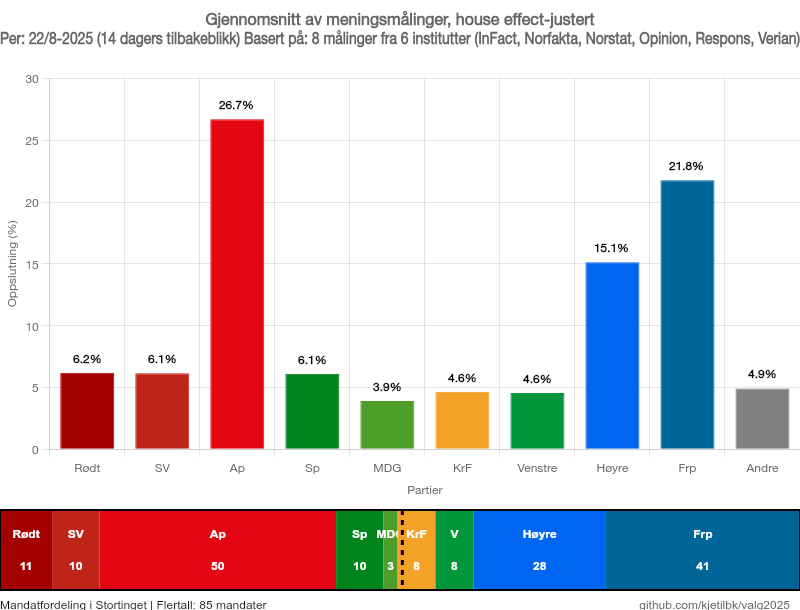
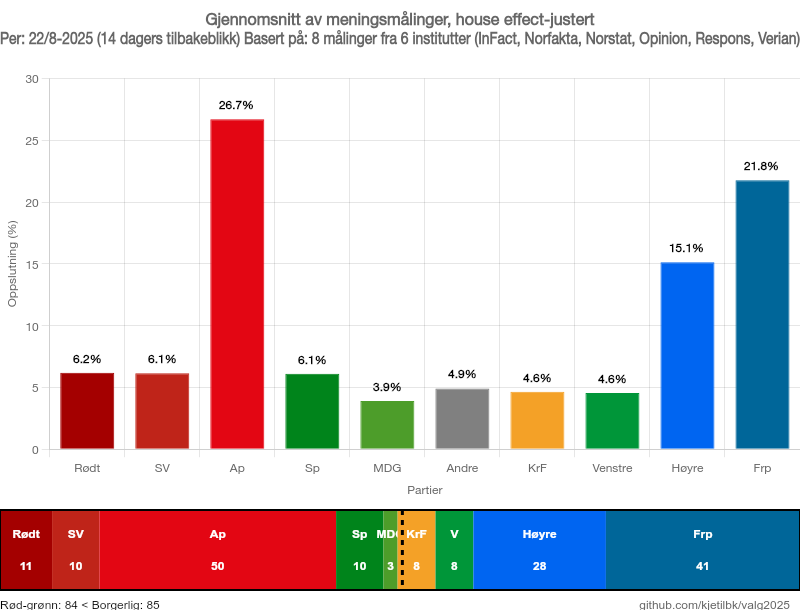
fix: dato og blokk-tekst

Changed region(s): [[0.5312, 0.2492, 1.0, 0.7787], [0.0, 0.9656, 0.3438, 1.0]]

diff --git a/src/partyVisualization.ts b/src/partyVisualization.ts
@@ -49,8 +49,8 @@ export function drawPartySeats(
     const rectWidth = width;
     const rectHeight = height - 20; // Leave space for label
 
-    // Party order: Rødt, SV, Ap, Sp, MDG, KrF, Venstre, Høyre, Frp
-    const partyOrder = ['Rødt', 'SV', 'Ap', 'Sp', 'MDG', 'KrF', 'Venstre', 'Høyre', 'Frp'];
+    // Party order: Rødt, SV, Ap, Sp, MDG, Andre, KrF, Venstre, Høyre, Frp
+    const partyOrder = ['Rødt', 'SV', 'Ap', 'Sp', 'MDG', 'Andre', 'KrF', 'Venstre', 'Høyre', 'Frp'];
 
     // Get party data with seats > 0
     const partyData = partyOrder
@@ -118,11 +118,31 @@ export function drawPartySeats(
     ctx.stroke();
     ctx.setLineDash([]); // Reset line dash
 
+    // Calculate bloc seats
+    const redGreenParties = ['Rødt', 'SV', 'Ap', 'Sp', 'MDG'];
+    const conservativeParties = ['Høyre', 'Frp', 'KrF', 'Venstre'];
+    
+    const redGreenSeats = partyData
+        .filter(p => redGreenParties.includes(p.party))
+        .reduce((sum, p) => sum + p.seats, 0);
+    
+    const conservativeSeats = partyData
+        .filter(p => conservativeParties.includes(p.party))
+        .reduce((sum, p) => sum + p.seats, 0);
+        
+    const othersSeats = partyData
+        .filter(p => p.party === 'Andre')
+        .reduce((sum, p) => sum + p.seats, 0);
+
     // Add label below the rectangle
     ctx.fillStyle = '#000000';
     ctx.font = '12px monospace';
     ctx.textAlign = 'left';
 
     const labelY = y + rectHeight + 15;
-    ctx.fillText(`Mandatfordeling i Stortinget | Flertall: ${majority} mandater`, x, labelY);
+    const comparison = redGreenSeats > conservativeSeats ? '>' : '<';
+    const labelText = othersSeats > 0 
+        ? `Rød-grønn: ${redGreenSeats} ${comparison} Borgerlig: ${conservativeSeats} | Andre: ${othersSeats}`
+        : `Rød-grønn: ${redGreenSeats} ${comparison} Borgerlig: ${conservativeSeats}`;
+    ctx.fillText(labelText, x, labelY);
 }

diff --git a/src/scripts/generate_all.ts b/src/scripts/generate_all.ts
@@ -11,7 +11,6 @@ async function generateAll() {
 
     // Get command line arguments
     const lookbackDays = parseInt(process.argv[2] || '14') || 14;
-    const outputPath = process.argv[3] || `charts/complete-${new Date().toISOString().split('T')[0]}-${lookbackDays}day.png`;
     
     try {
         // Load and analyze data
@@ -31,6 +30,31 @@ async function generateAll() {
         if (!standings) {
             console.log('❌ Ingen måledata tilgjengelig for angitt tidsramme');
             process.exit(1);
+        }
+
+        // Generate filename if not provided, using date from latest poll
+        let outputPath = process.argv[3];
+        if (!outputPath) {
+            // Format the date from the standings (e.g., "22/8-2025" -> "2025-08-22")
+            const dateStr = standings.date;
+            const dateParts = dateStr.split('-');
+            const dayMonth = dateParts[0];
+            const year = dateParts[1];
+            
+            if (!dayMonth || !year) {
+                throw new Error(`Invalid date format: ${dateStr}`);
+            }
+            
+            const dayMonthParts = dayMonth.split('/');
+            const day = dayMonthParts[0];
+            const month = dayMonthParts[1];
+            
+            if (!day || !month) {
+                throw new Error(`Invalid day/month format: ${dayMonth}`);
+            }
+            
+            const formattedDate = `${year}-${month.padStart(2, '0')}-${day.padStart(2, '0')}`;
+            outputPath = `charts/complete-${formattedDate}-${lookbackDays}day.png`;
         }
 
         console.log(`📊 Genererer komplett analyse med ${lookbackDays}-dagers tilbakeblikk...`);

diff --git a/src/types.ts b/src/types.ts
@@ -73,11 +73,11 @@ export const PARTY_NAMES: PartyName[] = [
     'Ap',
     'Sp',
     'MDG',
+    'Andre',
     'KrF',
     'Venstre',
     'Høyre',
     'Frp',
-    'Andre',
 ];
 
 export interface CurrentStandings {
